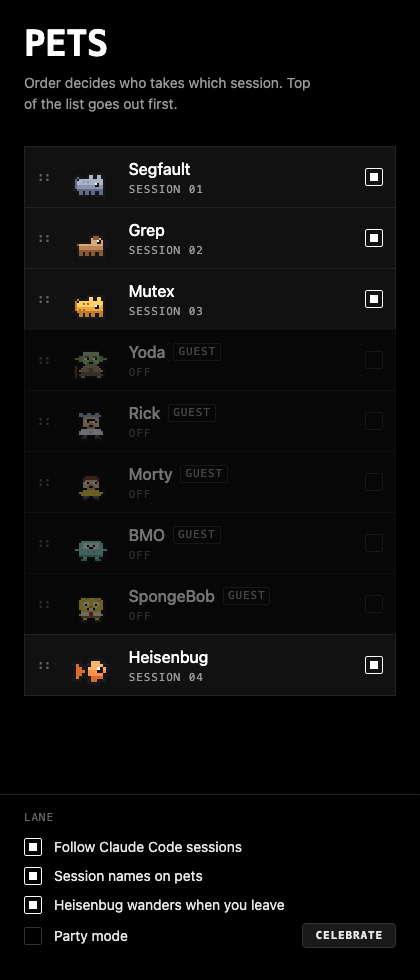
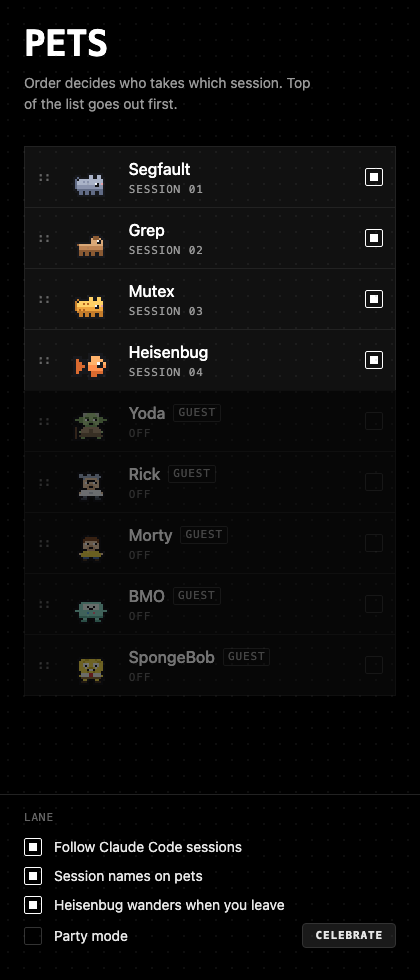
fix(pets): guests go below the team, not through the middle of it
Five guests sitting between Mutex and Heisenbug pushed the fish off the bottom of
the Pets window, so the four animals no longer read as a set — you saw three of
them, five visitors, and had to scroll for the fourth. The team belongs together
at the top and the guests belong under the fold.

`defaultOff` becomes `guests`, because being a guest was always one idea rather
than two settings: it arrives switched off *and* it sits last. Two knobs for one
idea is two knobs that can disagree.

Guests are appended rather than anchored the way a newly drawn custom pet is.
Anchoring puts them wherever Heisenbug happens to sit in the user's own order,
which for anyone who has dragged the list is the middle of their team; the bottom
is the only position that means "visitor" regardless of what is above it. A
user-drawn custom still lands among the team before the fish, which is the old
`filter(kind !== 'heisenbug')` position — moving that would silently reorder every
existing user's team.

An order the user stated still wins over all of this: a guest dragged upward keeps
the place they gave it, and only unplaced pets take the default.

Two things the tests did not cover until now, both found by mutation rather than
by the change itself:

- A guest naming a pet that never loaded was placed in the roster anyway, so the
  window would draw a row for a pet the lane silently skips for having no art.
  Guests are intersected with what actually loaded.
[…]

diff --git a/desktop/pet-roster.js b/desktop/pet-roster.js
@@ -23,9 +23,12 @@
 const LAST_BY_DEFAULT = 'heisenbug';
 
 /*
- * Every pet that exists right now, in the order sessions would reach them if
- * nobody had ever stated a preference. Customs sit between the land pets and the
- * fish, which is where the old `filter(kind !== 'heisenbug')` put them.
+ * The team, in the order sessions would reach them if nobody had ever stated a
+ * preference. Customs sit between the land pets and the fish, which is where the
+ * old `filter(kind !== 'heisenbug')` put them — moving them would silently
+ * reorder every existing user's team.
+ *
+ * Guests are not in here. See resolveRoster.
  */
 function defaultOrder(builtInIds, customNames) {
   const last = builtInIds.filter((id) => id === LAST_BY_DEFAULT);
@@ -33,13 +36,21 @@ function defaultOrder(builtInIds, customNames) {
   return [...first, ...customNames, ...last];
 }
 
+const list = (v) => (Array.isArray(v) ? v : []);
+
 /*
  * config: { order?: string[], off?: string[] } — what the user dragged and
  *   unchecked, straight out of ~/.strays/config.json under `pets`.
- * available: { builtIns, customs, defaultOff } — what exists on disk now, plus the
- *   ids that arrive switched off. `defaultOff` is for the pets that ship with
- *   strays: the four animals are the team, and a bundled guest that let itself out
- *   on install would be a surprise rather than a present.
+ * available: { builtIns, customs, guests } — what exists on disk now.
+ *
+ * A **guest** is a pet that ships with strays: Yoda and the rest of
+ * pets/bundled.json. Being a guest means two things, and they are one idea rather
+ * than two settings — it arrives *switched off*, and it sits *after* everything
+ * else. The four animals are the story, so a bundled pet that let itself out on
+ * install would be a surprise rather than a present, and one that landed in the
+ * middle of the list would split the team across the fold: with five of them
+ * between Mutex and Heisenbug, the fish was pushed off the bottom of the window
+ * and the four no longer read as a set.
  *
  * Returns { order, enabled }: `order` is every available pet in the order to
  * show and to bind, `enabled` is the subset that is switched on. The window
@@ -48,11 +59,23 @@ function defaultOrder(builtInIds, customNames) {
  */
 function resolveRoster(config, available) {
   const cfg = config || {};
-  const builtIns = (available && available.builtIns) || [];
-  const customs = (available && available.customs) || [];
+  const builtIns = list(available && available.builtIns);
+  const allCustoms = list(available && available.customs);
+
+  /*
+   * A guest reaches this through the same list as a custom pet — the loader merges
+   * bundled.json into the same set of defs — so `guests` says which of them are
+   * visitors rather than adding anything. Naming one that did not load is inert:
+   * it must not appear in the roster, or the window draws a row for a pet the lane
+   * will silently skip because it has no art.
+   */
+  const loaded = new Set(allCustoms);
+  const guests = list(available && available.guests).filter((id) => loaded.has(id));
+  const guestSet = new Set(guests);
+  const customs = allCustoms.filter((id) => !guestSet.has(id));
 
   const def = defaultOrder(builtIns, customs);
-  const exists = new Set(def);
+  const exists = new Set([...def, ...guests]);
 
   // A saved order can name pets that are gone: a custom pet deleted out of
   // custom-pets.json, or a built-in a future release drops. Dropping those
@@ -96,25 +119,37 @@ function resolveRoster(config, available) {
     rank.set(id, insertAt);
   }
 
+  /*
+   * Guests go on the end, and they are *appended* rather than anchored like a
+   * custom pet. Anchoring would drop them wherever Heisenbug happens to sit in the
+   * user's own order, which for anyone who has dragged the list is the middle of
+   * their team. The bottom is the only position that means "visitor" no matter what
+   * the user has done above it.
+   */
+  const placed = new Set(order);
+  for (const id of guests) {
+    if (placed.has(id)) continue;
+    placed.add(id);
+    order.push(id);
+  }
+
   // An `off` entry naming a pet that is not here is simply inert, which is why
   // this needs no guard. Keeping such an entry *on the way back out* is the part
   // that takes work — see mergeRoster.
   const off = new Set(Array.isArray(cfg.off) ? cfg.off : []);
 
   /*
-   * A pet that ships switched off, but only while the config has never placed it.
-   * Being *in* `order` is the test: the Pets window saves the whole list, so once
-   * anything has been saved every available pet is named there — and a guest the
-   * user switched on would otherwise be forced back off on the next launch, which
-   * reads as the checkbox not working rather than as a default.
+   * A guest is switched off, but only while the config has never placed it. Being
+   * in the *saved* order is the test: the Pets window writes the whole list on
+   * every change, so once anything has been saved every available pet is named
+   * there — and a guest the user asked in would otherwise be forced back off at
+   * the next launch, which reads as the checkbox not working rather than a default.
    *
    * There is no need to also consult `off`: an id listed there is already off, so
    * defaulting it off again cannot change the answer.
    */
-  const placed = new Set(saved);
-  for (const id of Array.isArray(available && available.defaultOff) ? available.defaultOff : []) {
-    if (!placed.has(id)) off.add(id);
-  }
+  const stated = new Set(saved);
+  for (const id of guests) if (!stated.has(id)) off.add(id);
 
   return { order, enabled: order.filter((id) => !off.has(id)) };
 }

diff --git a/desktop/test/pet-roster.test.js b/desktop/test/pet-roster.test.js
@@ -212,7 +212,7 @@ test('no pets available at all is an empty roster, not an exception', () => {
  * change, so after one save every pet is named in `order`.
  */
 const guests = (names, customs = names) => ({
-  builtIns: BUILT_INS, customs, defaultOff: names,
+  builtIns: BUILT_INS, customs, guests: names,
 });
 
 test('a bundled guest ships switched off, but is still on the list', () => {
@@ -242,31 +242,77 @@ test('a guest switched off by hand is off for the stated reason, not the default
   assert.deepStrictEqual(enabled, ['segfault', 'grep', 'mutex', 'heisenbug']);
 });
 
-test('guests take their default place in the order — before the fish', () => {
+/*
+ * The team has to stay together at the top. Five guests between Mutex and
+ * Heisenbug pushed the fish off the bottom of the window, so the four stopped
+ * reading as a set — which is how this was reported.
+ */
+test('guests go after the whole team, not into the middle of it', () => {
   const { order } = resolveRoster({}, guests(['Yoda', 'Rick']));
-  assert.deepStrictEqual(order, ['segfault', 'grep', 'mutex', 'Yoda', 'Rick', 'heisenbug']);
+  assert.deepStrictEqual(order, ['segfault', 'grep', 'mutex', 'heisenbug', 'Yoda', 'Rick']);
+  assert.ok(order.indexOf('Yoda') > order.indexOf('heisenbug'),
+    'the fish is the last of the team, so a guest comes after her');
 });
 
-test('defaultOff naming a pet that is not here changes nothing', () => {
+test('guests land at the bottom even when the team has been reordered', () => {
+  // anchoring a guest on the fish would drop it into the middle of this list
+  const cfg = { order: ['heisenbug', 'segfault', 'mutex', 'grep'] };
+  const { order } = resolveRoster(cfg, guests(['Yoda']));
+  assert.deepStrictEqual(order, ['heisenbug', 'segfault', 'mutex', 'grep', 'Yoda']);
+});
+
+test('a user-drawn custom still lands among the team, not with the guests', () => {
+  const { order } = resolveRoster({}, {
+    builtIns: BUILT_INS, customs: ['Nullptr', 'Yoda'], guests: ['Yoda'],
+  });
+  assert.deepStrictEqual(order, ['segfault', 'grep', 'mutex', 'Nullptr', 'heisenbug', 'Yoda'],
+    'a pet you drew is one of yours; a bundled one is a visitor');
+});
+
+test('a guest the user dragged upward keeps the place they gave it', () => {
+  const cfg = { order: ['Yoda', 'mutex', 'heisenbug', 'segfault', 'grep'] };
+  const { order, enabled } = resolveRoster(cfg, guests(['Yoda', 'Rick']));
+  assert.strictEqual(order[0], 'Yoda', 'placed by hand, so it stays put');
+  assert.strictEqual(order[order.length - 1], 'Rick', 'the unplaced guest still goes last');
+  assert.ok(enabled.includes('Yoda'), 'and stays switched on');
+  assert.ok(!enabled.includes('Rick'));
+});
+
+test('a guest that is not here changes nothing', () => {
   const { order, enabled } = resolveRoster({}, {
-    builtIns: BUILT_INS, customs: [], defaultOff: ['Ghost'],
+    builtIns: BUILT_INS, customs: [], guests: ['Ghost'],
   });
   assert.deepStrictEqual(order, ['segfault', 'grep', 'mutex', 'heisenbug']);
   assert.deepStrictEqual(enabled, order, 'and does not switch off a built-in');
 });
 
-test('a built-in could be defaulted off too, and the team shrinks by exactly one', () => {
-  // not shipped that way, but the rule must not be special-cased to custom pets
-  const { enabled } = resolveRoster({}, {
-    builtIns: BUILT_INS, customs: [], defaultOff: ['heisenbug'],
-  });
-  assert.deepStrictEqual(enabled, ['segfault', 'grep', 'mutex']);
+test('a missing or ragged guest list is read as no guests', () => {
+  for (const bad of [undefined, null, 'Yoda', 7]) {
+    const { order, enabled } = resolveRoster({}, { builtIns: BUILT_INS, customs: ['Yoda'], guests: bad });
+    assert.deepStrictEqual(order, ['segfault', 'grep', 'mutex', 'Yoda', 'heisenbug'],
+      `guests=${JSON.stringify(bad)} — Yoda falls back to being an ordinary custom pet`);
+    assert.deepStrictEqual(enabled, order);
+  }
 });
 
-test('a missing or ragged defaultOff is read as no guests', () => {
-  for (const bad of [undefined, null, 'Yoda', 7]) {
-    const { enabled } = resolveRoster({}, { builtIns: BUILT_INS, customs: ['Yoda'], defaultOff: bad });
-    assert.deepStrictEqual(enabled, ['segfault', 'grep', 'mutex', 'Yoda', 'heisenbug'],
-      `defaultOff=${JSON.stringify(bad)}`);
+/*
+ * A pet can reach the order by two routes — the saved order, and being appended
+ * as an unplaced guest — so the one invariant that has to hold across every
+ * config is that it arrives once. A duplicate id is worse than a wrong position:
+ * the roster keys pets by id, so the second one shadows the first.
+ */
+test('the resolved order never contains the same pet twice', () => {
+  const cases = [
+    [{}, guests(['Yoda', 'Rick'])],
+    [{ order: ['Yoda', 'mutex', 'heisenbug', 'segfault', 'grep'] }, guests(['Yoda', 'Rick'])],
+    [{ order: ['Yoda', 'Rick'], off: ['Rick'] }, guests(['Yoda', 'Rick'])],
+    [{ order: ['grep', 'grep', 'Yoda'] }, guests(['Yoda'])],
+    [{ order: ['Rick', 'Yoda'] }, guests(['Yoda', 'Rick'])],
+  ];
+  for (const [cfg, avail] of cases) {
+    const { order, enabled } = resolveRoster(cfg, avail);
+    assert.strictEqual(new Set(order).size, order.length,
+      `duplicate in order for ${JSON.stringify(cfg)}: ${order.join(',')}`);
+    assert.strictEqual(new Set(enabled).size, enabled.length, 'and none in enabled');
   }
 });

diff --git a/desktop/main.js b/desktop/main.js
@@ -475,9 +475,9 @@ function currentRoster() {
   const resolved = resolveRoster(readConfig().pets, {
     builtIns: builtIns.map((p) => p.id),
     customs: defs.map((d) => d.name),
-    // a guest is off until asked in, but only while the config has never had an
-    // opinion about it — otherwise switching one on would not survive a restart
-    defaultOff: bundled,
+    // guests ship with strays: off until asked in, and last in the list so the
+    // four animals stay together at the top of the window
+    guests: bundled,
   });
   // art for every row, so the window can draw the pet rather than name it
   const guests = new Set(bundled);

diff --git a/CLAUDE.md b/CLAUDE.md
@@ -98,14 +98,29 @@ The most common request. A pet is JSON: `{ name, speed, phrases, palette, grids 
   drawn in the editor join without a restart — and would double every pet up if
   registering also adopted.
 
-- **The five bundled pets are guests, and arrive switched off.** The four animals
-  are the story; `pets/bundled.json` is not. `defaultOff` in `pet-roster.js` does
-  it, and the subtle part is that it only applies while the config has never
-  *placed* the pet — being in `order` is the test. The Pets window saves the whole
-  list on every change, so after one save every pet is named there; keying the
-  default on anything else forces a guest the user switched on back off at the next
-  launch, which reads as the checkbox not working. Guests are badged `GUEST`
-  rather than `CUSTOM`, because a pet the user never touched is not theirs.
+- **A guest is one idea with two halves: switched off, and last.** `guests` in
+  `pet-roster.js` — the five in `pets/bundled.json`. Off, because the four animals
+  are the story and a bundled pet letting itself out on install is a surprise
+  rather than a present. Last, because five of them sitting between Mutex and
+  Heisenbug pushed the fish off the bottom of the window and the four stopped
+  reading as a set. Deliberately *not* two settings: they cannot then disagree.
+  - Guests are **appended**, not anchored the way a new custom pet is. Anchoring
+    drops them wherever Heisenbug happens to sit in the user's own order, which
+    for anyone who has dragged the list is the middle of their team.
+  - A **user-drawn** custom still lands among the team, before the fish. That is
+    the old `filter(kind !== 'heisenbug')` position and moving it would silently
+    reorder every existing user.
+  - The default only applies while the config has never *placed* the pet — being
+    in the saved `order` is the test. The window writes the whole list on every
+    change, so keying it on anything else forces a guest the user asked in back
+    off at the next launch, which reads as the checkbox not working.
+  - A guest naming a pet that did not load is **inert**. It reaches the resolver
+    through the same list as a custom pet, so an id with no def would otherwise
+    draw a row for a pet the lane silently skips for having no art.
+  - The order must contain no id twice — a pet can arrive by two routes, and the
+    roster keys by id, so a duplicate shadows the original.
+  - Badged `GUEST` rather than `CUSTOM`: a pet the user never touched is not
+    theirs.
 - **The pet loader keys on name, user file second.** `readPetDefs()` merges
   `pets/bundled.json` then `~/.strays/custom-pets.json`, so editing a bundled pet
   in your own file *replaces* it. Concatenating would put two animals with one name

diff --git a/README.md b/README.md
@@ -33,8 +33,9 @@ Want a fifth? [Draw one.](#make-your-own) — or let one of the guests in.
 
 ### And five guests
 
-They ship with strays and start switched off, because the four above are the
-point. Turn one on in 🐾 → **Pets…**, where they're badged `GUEST`.
+They ship with strays and sit at the bottom of the list, switched off, because the
+four above are the point. Turn one on in 🐾 → **Pets…**, where they're badged
+`GUEST`.
 
 |     | who |
 | --- | --- |
